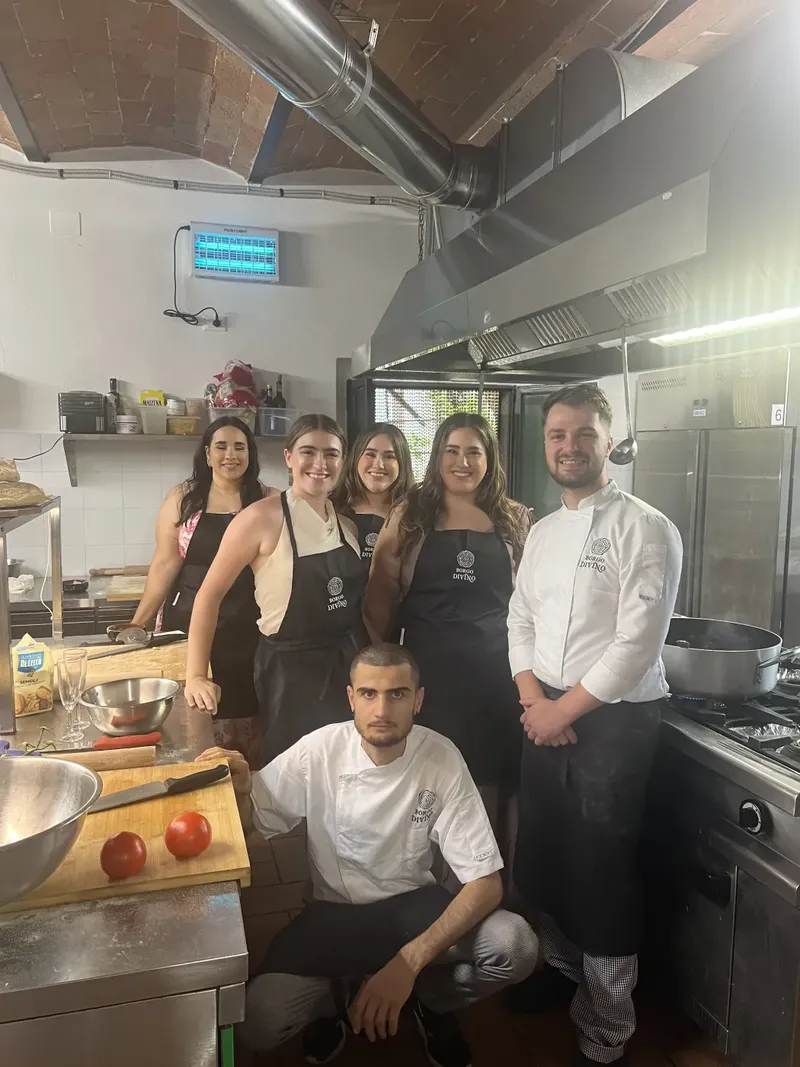
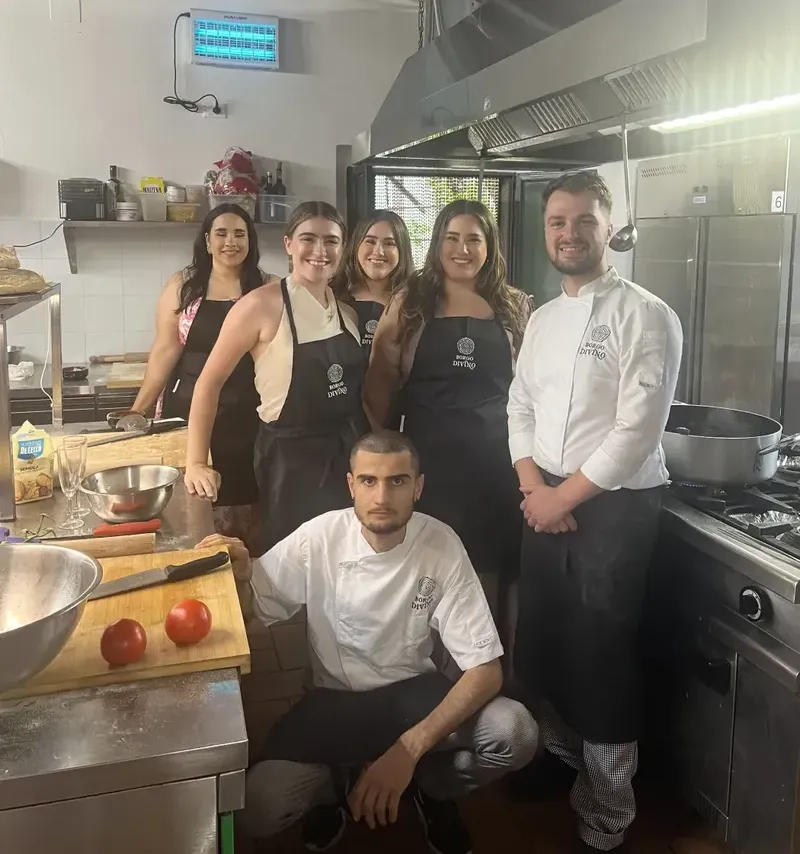
refactor: update image asset in Story component and enhance multilingual content for clarity and consistency

diff --git a/src/i18n/locales/fr.ts b/src/i18n/locales/fr.ts
@@ -119,12 +119,12 @@ const fr = {
     items: [
       { q: 'Qui donne les cours ?', a: 'Endri et Marsel, deux amis et chefs de cuisine de deux agritourismes dans les collines autour de Florence. Les pâtes pour les mariages, les banquets et les démonstrations en direct sont notre métier ; les cours se font en anglais ou en italien.' },
       { q: 'Où se déroulent les cours ?', a: 'Dans notre cuisine de l\'Oltrarno, près de la Piazza Santo Spirito, en plein cœur de Florence. Nous envoyons l\'adresse complète lors de la réservation.' },
-      { q: 'Combien de temps dure un cours ?', a: 'La Table du Chef dure environ 3 heures ; Marché & Mains (avec la visite du marché à l\'aube) dure environ 5 heures. Chaque cours se termine par un déjeuner assis avec ce que vous avez préparé.' },
+      { q: 'Combien de temps dure un atelier de pâtes fraîches ?', a: 'La Table du Chef dure environ 3 heures ; Marché & Mains (avec la visite du marché à l\'aube) dure environ 5 heures. Chaque cours se termine par un déjeuner assis avec ce que vous avez préparé.' },
       { q: 'Combien de personnes y a-t-il dans chaque cours ?', a: "Uniquement des petits groupes. Jamais plus de 8 à table (max 6 pour le cours du marché), il y a donc toujours un chef à vos côtés pour vous aider." },
       { q: 'Est-ce qu\'on mange les pâtes qu\'on prépare ?', a: 'Oui. Chaque cours se termine à table avec vos pâtes fraîches, une sauce toscane et un verre de vin local.' },
-      { q: 'Pouvez-vous adapter le cours aux régimes sans gluten ou aux allergies ?', a: 'Oui, nous pouvons préparer un mélange de farines sans gluten dédié et un poste de travail propre sans frais supplémentaires. Indiquez-nous simplement toute allergie lors de la réservation.' },
-      { q: "Je ne peux pas venir à Florence. Puis-je quand même suivre un cours ?", a: 'Absolument. Nos cours en ligne en direct sont diffusés depuis la même cuisine, avec un kit d\'ingrédients pour pâtes fraîches livré chez vous, à partir de 68 € par personne.' },
-      { q: 'Organisez-vous des activités de team building d\'entreprise ou travaillez-vous avec des hôtels et des voyagistes ?', a: 'Oui. Les entreprises peuvent réserver toute la cuisine pour un cours privé de team building (6 à 14 personnes), et nous proposons des tarifs partenaires et des réservations de recommandation pour les hôtels, les agritourismes et les voyagistes. Envoyez un e-mail à ciao@handmadepastaflorence.com avec "Partenariat commercial" et nous vous répondrons dans un délai d\'un jour ouvrable.' },
+      { q: 'Y a-t-il des cours de cuisine de pâtes privés à Florence ?', a: 'Oui. Les entreprises et les groupes peuvent réserver toute la cuisine pour un cours privé de la Grande Table Familiale (6 à 14 personnes). Nous proposons également des tarifs partenaires et des réservations de recommandation pour les hôtels, les agritourismes et les voyagistes.' },
+      { q: 'Combien coûte un cours de fabrication de pâtes à Florence ?', a: 'Notre cours signature La Table du Chef coûte 95 € par personne, et le cours Marché & Mains coûte 145 €. Les cours de groupe privés commencent à 680 €.' },
+      { q: 'Où puis-je trouver des pâtes fraîches sans gluten à Florence ?', a: 'Ici même dans notre cuisine ! Nous pouvons préparer un mélange de farines sans gluten dédié et un poste de travail propre sans frais supplémentaires. Indiquez-nous simplement toute allergie lors de la réservation.' },
       { q: 'Quand les cours ont-ils lieu ?', a: 'Les cours commencent à 10:00, 14:30 et 18:00 (heure de Florence), tous les jours de la semaine.' },
       { q: 'Comment réserver et payer ?', a: "Utilisez le bouton “Réserver un cours” pour créer votre demande. Cela ouvre une discussion WhatsApp avec les détails pré-remplis, et nous confirmerons la disponibilité et vous guiderons pour le reste." },
     ],

diff --git a/src/i18n/locales/de.ts b/src/i18n/locales/de.ts
@@ -121,14 +121,14 @@ const de = {
     items: [
       { q: 'Wer leitet die Kurse?', a: 'Endri und Marsel, zwei Freunde und Chefköche von zwei Agriturismi in den Hügeln außerhalb von Florenz. Pasta für Hochzeiten, Feste und Live-Shows ist unser Alltag; Kurse finden auf Englisch oder Italienisch statt.' },
       { q: 'Wo finden die Kurse statt?', a: 'In unserer Küche im Oltrarno, in der Nähe der Piazza Santo Spirito im Herzen von Florenz. Wir senden Ihnen die genaue Adresse, wenn Sie buchen.' },
-      { q: 'Wie lange dauert ein Kurs?', a: 'Der Chef’s Table dauert etwa 3 Stunden; Mercato & Mani (mit dem Marktspaziergang bei Sonnenaufgang) dauert etwa 5 Stunden. Jeder Kurs endet mit einem gemeinsamen Mittagessen mit dem, was Sie gemacht haben.' },
+      { q: 'Wie lange dauert ein handgemachter Pasta-Workshop?', a: 'Der Chef’s Table dauert etwa 3 Stunden; Mercato & Mani (mit dem Marktspaziergang bei Sonnenaufgang) dauert etwa 5 Stunden. Jeder Kurs endet mit einem gemeinsamen Mittagessen mit dem, was Sie gemacht haben.' },
       { q: 'Wie viele Personen sind in jedem Kurs?', a: "Nur kleine Gruppen. Nie mehr als 8 am Tisch (max. 6 für den Marktkurs), sodass immer ein Koch an Ihrer Seite ist, um Ihre Faltung zu korrigieren." },
       { q: 'Essen wir die Pasta, die wir machen?', a: 'Ja. Jeder Kurs endet am Tisch mit Ihrer frischen Pasta, einer toskanischen Sauce und einem Glas lokalem Wein.' },
-      { q: 'Können Sie auf glutenfreie Diäten oder Allergien eingehen?', a: 'Ja, wir können ohne Aufpreis eine spezielle glutenfreie Mehlmischung und eine saubere Arbeitsstation vorbereiten. Teilen Sie uns einfach bei der Buchung etwaige Allergien mit.' },
-      { q: "Ich schaffe es nicht nach Florenz. Kann ich trotzdem an einem Kurs teilnehmen?", a: 'Absolut. Unsere Live-Online-Kurse werden aus derselben Küche gestreamt, mit einem Frischpasta-Zutaten-Kit, das an Ihre Tür geliefert wird, ab 68 € pro Person.' },
-      { q: 'Veranstalten Sie Firmen-Teambuilding oder arbeiten Sie mit Hotels und Reiseveranstaltern zusammen?', a: 'Ja. Unternehmen können die gesamte Küche für einen privaten Teambuilding-Kurs (6–14 Personen) buchen, und wir bieten Partnertarife und Empfehlungsbuchungen für Hotels, Agriturismi und Reiseveranstalter an. Senden Sie eine E-Mail mit dem Betreff "Business partnership" an ciao@handmadepastaflorence.com und wir antworten innerhalb eines Werktages.' },
+      { q: 'Gibt es private Pasta-Kochkurse in Florenz?', a: 'Ja. Unternehmen und Gruppen können die gesamte Küche für einen privaten Family Long-Table Kurs (6–14 Personen) buchen. Wir bieten auch Partnertarife und Empfehlungsbuchungen für Hotels, Agriturismi und Reiseveranstalter an.' },
+      { q: 'Wie viel kostet ein Pasta-Kochkurs in Florenz?', a: 'Unser exklusiver Chef’s Table Kurs kostet 95 € pro Person, und der Mercato & Mani Kurs kostet 145 €. Private Gruppenkurse beginnen ab 680 €.' },
+      { q: 'Wo finde ich handgemachte glutenfreie Pasta in Florenz?', a: 'Direkt hier in unserer Küche! Wir können ohne Aufpreis eine spezielle glutenfreie Mehlmischung und eine saubere Arbeitsstation vorbereiten. Teilen Sie uns einfach bei der Buchung etwaige Allergien mit.' },
       { q: 'Wann finden die Kurse statt?', a: 'Die Kurse beginnen um 10:00, 14:30 und 18:00 Uhr (Ortszeit Florenz), an jedem Wochentag.' },
-      { q: 'Wie buche und bezahle ich?', a: "Nutzen Sie die Schaltfläche „Kurs buchen“, um Ihre Anfrage zu erstellen. Es öffnet sich ein WhatsApp-Chat mit den ausgefüllten Details, und wir werden die Verfügbarkeit bestätigen und Sie durch den Rest führen." },
+      { q: 'Wie kann ich buchen und bezahlen?', a: "Verwenden Sie die Schaltfläche „Kurs buchen“, um Ihre Anfrage zu erstellen. Es öffnet sich ein WhatsApp-Chat mit den vorausgefüllten Details, und wir bestätigen die Verfügbarkeit und führen Sie durch den Rest." },
     ],
   },
 

diff --git a/src/i18n/locales/it.ts b/src/i18n/locales/it.ts
@@ -123,12 +123,12 @@ const it: Dict = {
     items: [
       { q: `Chi insegna nei corsi?`, a: `Endri e Marsel, due amici e chef di due agriturismi sulle colline appena fuori Firenze. La pasta per matrimoni, feste ed eventi dal vivo è il nostro lavoro quotidiano; i corsi si tengono in inglese o in italiano.` },
       { q: `Dove si tengono i corsi?`, a: `Nella nostra cucina in Oltrarno, vicino a Piazza Santo Spirito nel cuore di Firenze. Inviamo l'indirizzo completo al momento della prenotazione.` },
-      { q: `Quanto dura un corso?`, a: `Il Tavolo dello Chef dura circa 3 ore; Mercato & Mani (con il giro al mercato all'alba) dura circa 5 ore. Ogni corso si conclude con un pranzo al tavolo con ciò che hai preparato.` },
+      { q: `Quanto dura un corso di pasta fresca?`, a: `Il Tavolo dello Chef dura circa 3 ore; Mercato & Mani (con il giro al mercato all'alba) dura circa 5 ore. Ogni corso si conclude con un pranzo al tavolo con ciò che hai preparato.` },
       { q: `Quante persone ci sono in ogni corso?`, a: `Solo piccoli gruppi. Mai più di 8 a tavola (max 6 per il corso al mercato), quindi c'è sempre uno chef al tuo fianco per correggere la tua piega.` },
       { q: `Mangiamo la pasta che prepariamo?`, a: `Sì. Ogni lezione finisce a tavola con la tua pasta fresca, un sugo toscano e un bicchiere di vino locale.` },
-      { q: `Potete soddisfare diete senza glutine o allergie?`, a: `Sì, possiamo preparare una miscela di farine senza glutine dedicata e una postazione pulita senza costi aggiuntivi. Basta segnalarci eventuali allergie al momento della prenotazione.` },
-      { q: `Non posso venire a Firenze. Posso comunque fare un corso?`, a: `Assolutamente sì. I nostri corsi online in diretta vengono trasmessi dalla stessa cucina, con un kit di ingredienti per la pasta fresca spedito a casa tua, a partire da €68 a persona.` },
-      { q: `Ospitate team building aziendali o lavorate con hotel e tour operator?`, a: `Sì. Le aziende possono prenotare l'intera cucina per un corso di team building privato (6-14 persone), e offriamo tariffe partner e prenotazioni su segnalazione per hotel, agriturismi e tour operator. Invia un'email a ciao@handmadepastaflorence.com con oggetto "Partnership commerciale" e ti risponderemo entro un giorno lavorativo.` },
+      { q: `Ci sono corsi di cucina privati a Firenze?`, a: `Sì. Le aziende e i gruppi possono prenotare l'intera cucina per un corso privato "Tavolo in Famiglia" (6-14 persone). Offriamo anche tariffe partner e prenotazioni su segnalazione per hotel, agriturismi e tour operator.` },
+      { q: `Quanto costa un corso di pasta fresca a Firenze?`, a: `Il nostro corso esclusivo "Il Tavolo dello Chef" costa €95 a persona, e il corso "Mercato & Mani" costa €145. I corsi di gruppo privati partono da €680.` },
+      { q: `Dove posso trovare pasta fresca senza glutine a Firenze?`, a: `Proprio qui nella nostra cucina! Possiamo preparare una miscela di farine senza glutine dedicata e una postazione pulita senza costi aggiuntivi. Basta segnalarci eventuali allergie al momento della prenotazione.` },
       { q: `Quando si svolgono i corsi?`, a: `I corsi iniziano alle 10:00, 14:30 e 18:00 (ora di Firenze), tutti i giorni della settimana.` },
       { q: `Come faccio a prenotare e pagare?`, a: `Usa il pulsante "Prenota un corso" per creare la tua richiesta. Si aprirà una chat di WhatsApp con i dettagli precompilati, ti confermeremo la disponibilità e ti guideremo per il resto.` },
     ],

diff --git a/src/i18n/locales/zh.ts b/src/i18n/locales/zh.ts
@@ -119,12 +119,12 @@ const zh = {
     items: [
       { q: '谁来教授课程？', a: 'Endri 和 Marsel，我们是一对好朋友，也是佛罗伦萨城外两家农庄的主厨。为婚宴、节日和现场表演制作意面是我们的日常工作；课程可以使用英语或意大利语进行。' },
       { q: '上课地点在哪里？', a: '在我们位于奥尔特拉诺的厨房里，靠近佛罗伦萨市中心的圣斯皮里托广场。预订后我们会发送完整的地址。' },
-      { q: '课程有多长？', a: '主厨餐桌课程大约需要3个小时；市场与手工课程（包含清晨的菜市场漫步）大约需要5个小时。每节课程都会以坐下来享用你亲手制作的午餐作为结束。' },
+      { q: '手工意面工作坊需要多长时间？', a: '主厨餐桌课程大约需要3个小时；市场与手工课程（包含清晨的菜市场漫步）大约需要5个小时。每节课程都会以坐下来享用你亲手制作的午餐作为结束。' },
       { q: '每个班有多少人？', a: "仅限小班授课。餐桌旁绝对不超过8人（市场课程最多6人），确保总有一位主厨在你身边亲自指导。" },
       { q: '我们会吃掉自己做的意面吗？', a: '是的。每节课都会在餐桌上结束，品尝你新鲜制作的意面，搭配托斯卡纳酱汁和一杯当地葡萄酒。' },
-      { q: '你们能提供无麸质饮食或处理过敏情况吗？', a: '可以，我们可以免费准备专门的无麸质混合面粉和干净的操作台。预订时只需告诉我们是否有过敏情况即可。' },
-      { q: "我无法前往佛罗伦萨。我还能参加课程吗？", a: '完全可以。我们的在线直播课程在同一个厨房里进行直播，并将新鲜意面的食材包邮寄到你家门口，每人68欧元起。' },
-      { q: '你们承接企业团建或与酒店和旅行社合作吗？', a: '是的。企业可以包下整个厨房进行私人团建课程（6-14人），我们还为酒店、农庄和旅行社提供合作伙伴价和推荐预订服务。请发送邮件至 ciao@handmadepastaflorence.com，注明“商业合作（Business partnership）”，我们会在一个工作日内回复。' },
+      { q: '佛罗伦萨有私人的意面烹饪课程吗？', a: '是的。企业和团体可以包下整个厨房进行私人“家庭长桌”课程（6-14人）。我们还为酒店、农庄和旅行社提供合作伙伴价和推荐预订服务。' },
+      { q: '在佛罗伦萨参加意面烹饪课程多少钱？', a: '我们的招牌主厨餐桌课程为每人 95 欧元，市场与手工课程为 145 欧元。私人团体课程起价 680 欧元。' },
+      { q: '在佛罗伦萨哪里可以找到无麸质手工意面？', a: '就在我们的厨房里！我们可以免费准备专门的无麸质混合面粉和干净的操作台。预订时只需告诉我们是否有过敏情况即可。' },
       { q: '课程什么时间进行？', a: '课程时间为 10:00、14:30 和 18:00（佛罗伦萨时间），每周七天全天开放。' },
       { q: '我该如何预订和付款？', a: "使用“预订课程”按钮来提交你的需求。它会打开一个自动填好详情的 WhatsApp 聊天窗口，我们会确认名额情况并引导你完成后续步骤。" },
     ],

diff --git a/src/i18n/locales/en.ts b/src/i18n/locales/en.ts
@@ -132,12 +132,12 @@ const en = {
     items: [
       { q: 'Who teaches the classes?', a: 'Endri and Marsel, two friends and the head chefs of two agriturismi in the hills outside Florence. Pasta for weddings, feasts and live shows is our day job; classes run in English or Italian.' },
       { q: 'Where are the classes held?', a: 'In our kitchen in the Oltrarno, near Piazza Santo Spirito in the heart of Florence. We send the full address when you book.' },
-      { q: 'How long is a class?', a: 'The Chef’s Table runs about 3 hours; Mercato & Mani (with the dawn market walk) runs about 5 hours. Every class ends with a sit-down lunch of what you made.' },
+      { q: 'How long does a handmade pasta workshop take?', a: 'The Chef’s Table runs about 3 hours; Mercato & Mani (with the dawn market walk) runs about 5 hours. Every class ends with a sit-down lunch of what you made.' },
       { q: 'How many people are in each class?', a: "Small groups only. Never more than 8 at the table (max 6 for the market class), so there’s always a chef at your elbow to fix your fold." },
       { q: 'Do we eat the pasta we make?', a: 'Yes. Every class ends at the table with your fresh pasta, a Tuscan sauce, and a glass of local wine.' },
-      { q: 'Can you cater to gluten-free diets or allergies?', a: 'Yes, we can prepare a dedicated gluten-free flour blend and a clean station at no extra charge. Just tell us about any allergies when you book.' },
-      { q: "I can’t make it to Florence. Can I still take a class?", a: 'Absolutely. Our live online classes are streamed from the same kitchen, with a fresh-pasta ingredient kit shipped to your door, from €68 per person.' },
-      { q: 'Do you host corporate team building or work with hotels and tour operators?', a: 'Yes. Companies can book the whole kitchen for a private team-building class (6–14 people), and we offer partner rates and referral booking for hotels, agriturismi and tour operators. Email ciao@handmadepastaflorence.com with "Business partnership" and we reply within one working day.' },
+      { q: 'Are there private pasta cooking classes in Florence?', a: 'Yes. Companies and groups can book the whole kitchen for a private Family Long-Table class (6–14 people). We also offer partner rates and referral booking for hotels, agriturismi and tour operators.' },
+      { q: 'How much does a pasta making class in Florence cost?', a: 'Our signature Chef’s Table class is €95 per person, and the Mercato & Mani class is €145. Private group classes start from €680.' },
+      { q: 'Where can I find gluten-free handmade pasta in Florence?', a: 'Right here in our kitchen! We can prepare a dedicated gluten-free flour blend and a clean station at no extra charge. Just tell us about any allergies when you book.' },
       { q: 'When do classes run?', a: 'Classes start at 10:00, 14:30 and 18:00 (Florence time), every day of the week.' },
       { q: 'How do I book and pay?', a: "Use the “Book a class” button to build your request. It opens a WhatsApp chat with the details filled in, and we’ll confirm availability and walk you through the rest." },
     ],
